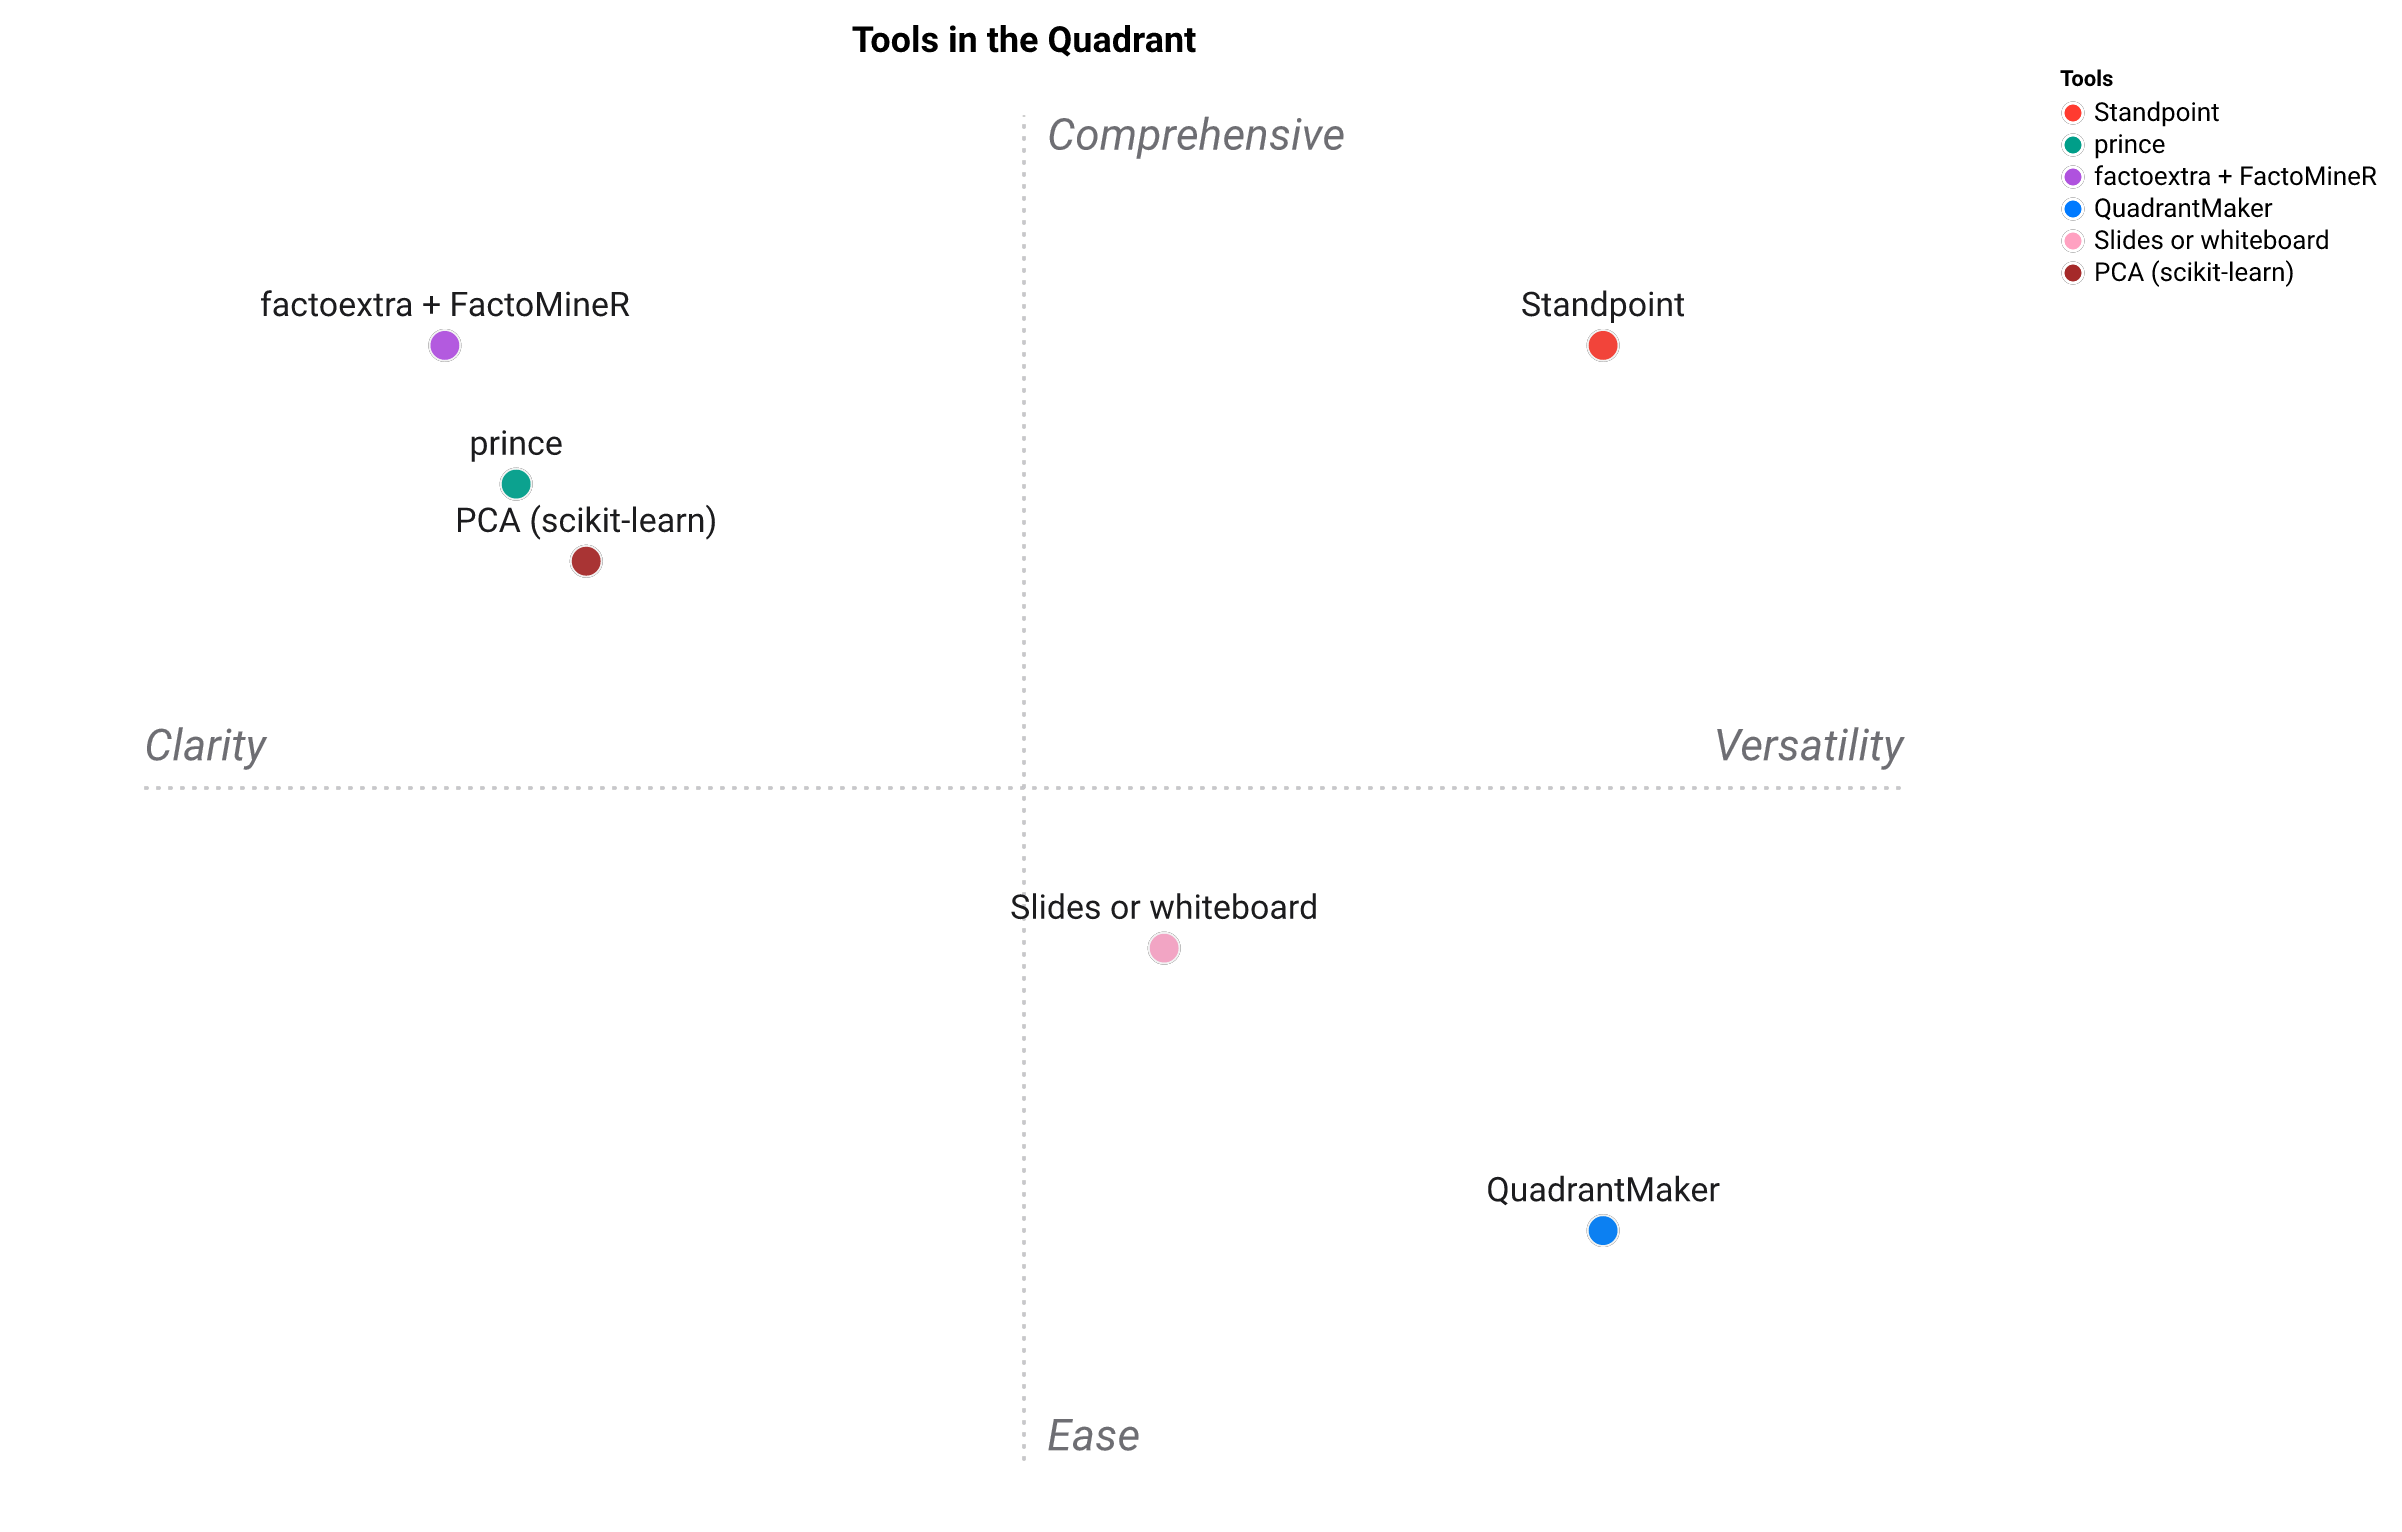
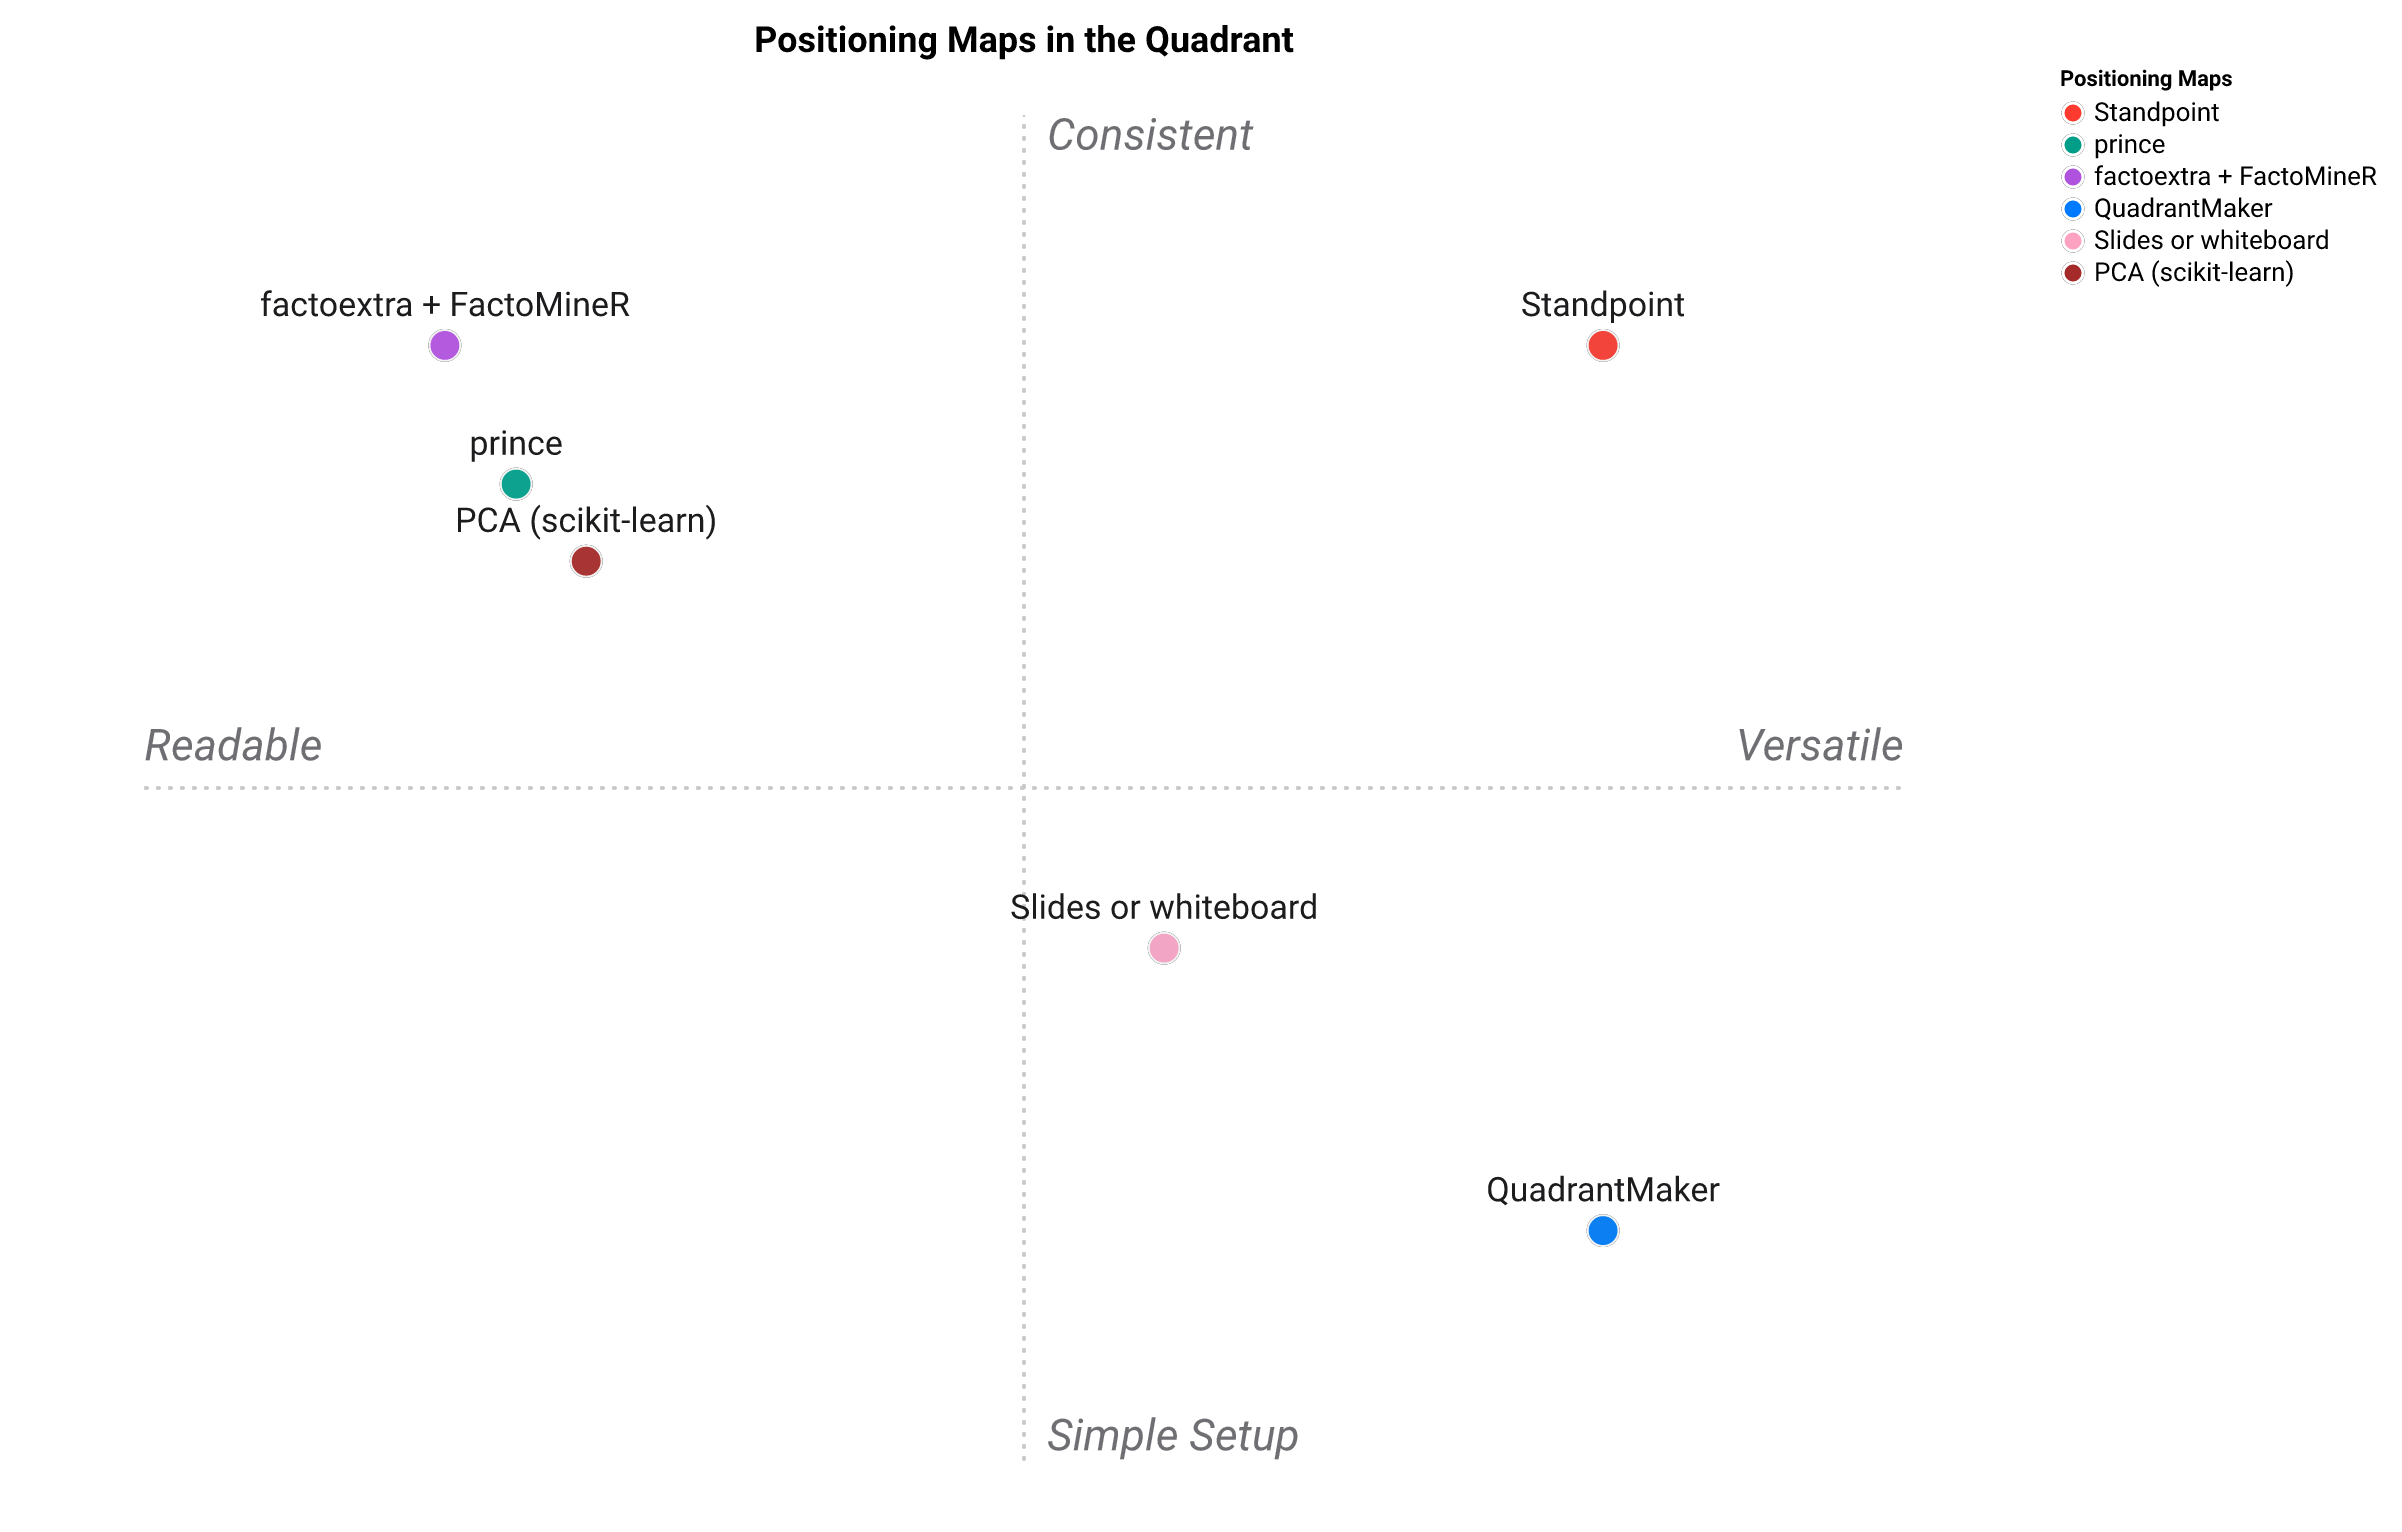
0.2.0: join the AI Helpers suite + first PyPI release
- Suite framing (logo, AI Helpers header), canonical Documentation section, and a
  self-referential positioning map wired into LANDSCAPE.md / PAYSAGE.md from the
  committed assets/landscape.csv / paysage.csv source (domain label 'Positioning
  Maps'), with managed TABLE / FIGURE marker regions.
- Absolute URLs in README/LISEZMOI so they render on PyPI; add 'pip install
  standpoint' (From PyPI) install path.
- Bump version 0.1.0 -> 0.2.0; CHANGELOG.

diff --git a/standpoint/__init__.py b/standpoint/__init__.py
@@ -34,7 +34,7 @@ from __future__ import annotations
 
 __author__ = "Warith Harchaoui"
 __url__ = "https://www.linkedin.com/in/warith-harchaoui"
-__version__ = "0.1.0"
+__version__ = "0.2.0"
 
 import argparse
 import json

diff --git a/LANDSCAPE.md b/LANDSCAPE.md
@@ -8,16 +8,26 @@ a comparison table run through the tool, exactly like any other example.
 
 The comparison (higher is better, on a 1–5 scale):
 
-| Tool | Automated Axis Naming | Multilingual Output | Local Execution | One Command | Threefold Deliverable | Reproducibility | Readable Axes | Ease of Setup |
-|---|---|---|---|---|---|---|---|---|
-| Standpoint | 5 | 5 | 5 | 5 | 5 | 5 | 4 | 4 |
-| prince | 1 | 1 | 5 | 2 | 1 | 5 | 5 | 3 |
-| PCA (scikit-learn) | 1 | 1 | 5 | 2 | 1 | 5 | 4 | 3 |
-| factoextra + FactoMineR | 1 | 1 | 5 | 2 | 2 | 5 | 5 | 2 |
-| QuadrantMaker | 1 | 2 | 2 | 4 | 1 | 1 | 2 | 5 |
-| Slides or whiteboard | 1 | 3 | 5 | 2 | 1 | 1 | 2 | 4 |
+<!-- TABLE:START -->
+| Positioning Maps | Automated Axis Naming | Multilingual Output | Local Execution | One Command | Threefold Deliverable | Reproducibility | Readable Axes | Ease of Setup |
+| --- | :---: | :---: | :---: | :---: | :---: | :---: | :---: | :---: |
+| **Standpoint** | ⭐⭐⭐⭐⭐ | ⭐⭐⭐⭐⭐ | ⭐⭐⭐⭐⭐ | ⭐⭐⭐⭐⭐ | ⭐⭐⭐⭐⭐ | ⭐⭐⭐⭐⭐ | ⭐⭐⭐⭐ | ⭐⭐⭐⭐ |
+| prince | ⭐ | ⭐ | ⭐⭐⭐⭐⭐ | ⭐⭐ | ⭐ | ⭐⭐⭐⭐⭐ | ⭐⭐⭐⭐⭐ | ⭐⭐⭐ |
+| PCA (scikit-learn) | ⭐ | ⭐ | ⭐⭐⭐⭐⭐ | ⭐⭐ | ⭐ | ⭐⭐⭐⭐⭐ | ⭐⭐⭐⭐ | ⭐⭐⭐ |
+| factoextra + FactoMineR | ⭐ | ⭐ | ⭐⭐⭐⭐⭐ | ⭐⭐ | ⭐⭐ | ⭐⭐⭐⭐⭐ | ⭐⭐⭐⭐⭐ | ⭐⭐ |
+| QuadrantMaker | ⭐ | ⭐⭐ | ⭐⭐ | ⭐⭐⭐⭐ | ⭐ | ⭐ | ⭐⭐ | ⭐⭐⭐⭐⭐ |
+| Slides or whiteboard | ⭐ | ⭐⭐⭐ | ⭐⭐⭐⭐⭐ | ⭐⭐ | ⭐ | ⭐ | ⭐⭐ | ⭐⭐⭐⭐ |
+<!-- TABLE:END -->
 
-![Standpoint compared to other positioning-map tools](https://raw.githubusercontent.com/warith-harchaoui/standingpoint/main/assets/landscape.png)
+## Positioning map
+
+<!-- FIGURE:START -->
+2D representation of the table above.
+
+![Positioning map](https://raw.githubusercontent.com/warith-harchaoui/standingpoint/main/assets/landscape.png)
+
+The map is a 2-D summary of the eight criteria, so read it as a shape, not a scoreboard. `Standpoint` is at the top-right corner. The axes read **Horizontal — Readable ↔ Versatile** and **Vertical — Simple Setup ↔ Consistent**.
+<!-- FIGURE:END -->
 
 ## How to read it
 

diff --git a/PAYSAGE.md b/PAYSAGE.md
@@ -9,16 +9,26 @@ l'outil, exactement comme n'importe quel autre exemple.
 
 La comparaison (plus haut vaut mieux, sur une échelle de 1 à 5) :
 
-| Outil | Nommage Automatique des Axes | Sortie Multilingue | Exécution Locale | Une Seule Commande | Livrable Triple | Reproductibilité | Axes Lisibles | Simplicité d'Installation |
-|---|---|---|---|---|---|---|---|---|
-| Standpoint | 5 | 5 | 5 | 5 | 5 | 5 | 4 | 4 |
-| prince | 1 | 1 | 5 | 2 | 1 | 5 | 5 | 3 |
-| PCA (scikit-learn) | 1 | 1 | 5 | 2 | 1 | 5 | 4 | 3 |
-| factoextra + FactoMineR | 1 | 1 | 5 | 2 | 2 | 5 | 5 | 2 |
-| QuadrantMaker | 1 | 2 | 2 | 4 | 1 | 1 | 2 | 5 |
-| Diapositives ou tableau blanc | 1 | 3 | 5 | 2 | 1 | 1 | 2 | 4 |
+<!-- TABLE:START -->
+| Cartes de positionnement | Nommage Automatique des Axes | Sortie Multilingue | Exécution Locale | Une Seule Commande | Livrable Triple | Reproductibilité | Axes Lisibles | Simplicité d'Installation |
+| --- | :---: | :---: | :---: | :---: | :---: | :---: | :---: | :---: |
+| **Standpoint** | ⭐⭐⭐⭐⭐ | ⭐⭐⭐⭐⭐ | ⭐⭐⭐⭐⭐ | ⭐⭐⭐⭐⭐ | ⭐⭐⭐⭐⭐ | ⭐⭐⭐⭐⭐ | ⭐⭐⭐⭐ | ⭐⭐⭐⭐ |
+| prince | ⭐ | ⭐ | ⭐⭐⭐⭐⭐ | ⭐⭐ | ⭐ | ⭐⭐⭐⭐⭐ | ⭐⭐⭐⭐⭐ | ⭐⭐⭐ |
+| PCA (scikit-learn) | ⭐ | ⭐ | ⭐⭐⭐⭐⭐ | ⭐⭐ | ⭐ | ⭐⭐⭐⭐⭐ | ⭐⭐⭐⭐ | ⭐⭐⭐ |
+| factoextra + FactoMineR | ⭐ | ⭐ | ⭐⭐⭐⭐⭐ | ⭐⭐ | ⭐⭐ | ⭐⭐⭐⭐⭐ | ⭐⭐⭐⭐⭐ | ⭐⭐ |
+| QuadrantMaker | ⭐ | ⭐⭐ | ⭐⭐ | ⭐⭐⭐⭐ | ⭐ | ⭐ | ⭐⭐ | ⭐⭐⭐⭐⭐ |
+| Diapositives ou tableau blanc | ⭐ | ⭐⭐⭐ | ⭐⭐⭐⭐⭐ | ⭐⭐ | ⭐ | ⭐ | ⭐⭐ | ⭐⭐⭐⭐ |
+<!-- TABLE:END -->
 
-![Standpoint comparé aux autres outils de cartes de positionnement](https://raw.githubusercontent.com/warith-harchaoui/standingpoint/main/assets/paysage.png)
+## Carte de positionnement
+
+<!-- FIGURE:START -->
+Représentation 2D du tableau ci-dessus.
+
+![Carte de positionnement](https://raw.githubusercontent.com/warith-harchaoui/standingpoint/main/assets/paysage.png)
+
+La carte est un résumé en 2D des 8 critères : à lire comme une forme, pas comme un classement. « Standpoint » se situe dans le coin en haut à droite. Les axes se lisent **Horizontal — Facile à Installer ↔ Fiable et Automatisé** et **Vertical — Simplicité de Début ↔ Répétable et Clair**.
+<!-- FIGURE:END -->
 
 Les en-têtes du tableau étant en français, la carte sort **entièrement en français** —
 titre, noms des axes et analyse — ce qui illustre au passage le côté multilingue de

diff --git a/LISEZMOI.md b/LISEZMOI.md
@@ -2,7 +2,7 @@
 
 [🇫🇷](https://github.com/warith-harchaoui/standingpoint/blob/main/LISEZMOI.md) · [🇬🇧](https://github.com/warith-harchaoui/standingpoint/blob/main/README.md)
 
-[![CI](https://github.com/warith-harchaoui/standingpoint/actions/workflows/ci.yml/badge.svg)](https://github.com/warith-harchaoui/standingpoint/actions/workflows/ci.yml) [![License: BSD-3-Clause](https://img.shields.io/badge/License-BSD%203--Clause-blue.svg)](LICENSE) [![Python](https://img.shields.io/badge/python-3.10%E2%80%933.13-blue.svg)](#) [![Local-first](https://img.shields.io/badge/local--first-Ollama%20%2B%20Vega--Lite-brightgreen.svg)](#la-promesse)
+[![CI](https://github.com/warith-harchaoui/standingpoint/actions/workflows/ci.yml/badge.svg)](https://github.com/warith-harchaoui/standingpoint/actions/workflows/ci.yml) [![License: BSD-3-Clause](https://img.shields.io/badge/License-BSD%203--Clause-blue.svg)](https://github.com/warith-harchaoui/standingpoint/blob/main/LICENSE) [![Python](https://img.shields.io/badge/python-3.10%E2%80%933.13-blue.svg)](#) [![Local-first](https://img.shields.io/badge/local--first-Ollama%20%2B%20Vega--Lite-brightgreen.svg)](#la-promesse)
 
 `Standpoint` fait partie d'une collection de bibliothèques appelée `AI Helpers`, développée pour bâtir des applications d'intelligence artificielle.
 
@@ -41,8 +41,11 @@ Standpoint est **local-first** par conception. Trois cas, en toute honnêteté :
 
 ## Documentation
 
+[💻 Documentation](https://harchaoui.org/warith/ai-helpers/docs/standingpoint-doc/)
+
+[🗺️ Paysage](https://github.com/warith-harchaoui/standingpoint/blob/main/PAYSAGE.md)
+
 [📋 Exemples](https://github.com/warith-harchaoui/standingpoint/blob/main/EXAMPLES.md)
-· [🗺️ Paysage](https://github.com/warith-harchaoui/standingpoint/blob/main/PAYSAGE.md)
 
 
 Entrée : un tableau d'options et de leurs notes.
@@ -110,6 +113,12 @@ téléchargez le modèle par défaut une fois (optionnel — sinon, utilisez `--
 
 Nous recommandons un environnement Python. Si vous ne savez pas comment faire : [🥸 Conseils techniques](https://harchaoui.org/warith/4ml/#install).
 
+### Depuis PyPI (recommandé)
+
+```bash
+pip install standpoint
+```
+
 ### Depuis les sources
 
 ```bash
@@ -121,7 +130,7 @@ pip install -e .          # ou : pip install -r requirements.txt
 Ou directement depuis GitHub (le nom d'import est `standpoint`) :
 
 ```bash
-pip install "git+https://github.com/warith-harchaoui/standingpoint.git@v0.1.0"
+pip install "git+https://github.com/warith-harchaoui/standingpoint.git@v0.2.0"
 ```
 
 ## Utilisation

diff --git a/README.md b/README.md
@@ -2,7 +2,7 @@
 
 [🇫🇷](https://github.com/warith-harchaoui/standingpoint/blob/main/LISEZMOI.md) · [🇬🇧](https://github.com/warith-harchaoui/standingpoint/blob/main/README.md)
 
-[![CI](https://github.com/warith-harchaoui/standingpoint/actions/workflows/ci.yml/badge.svg)](https://github.com/warith-harchaoui/standingpoint/actions/workflows/ci.yml) [![License: BSD-3-Clause](https://img.shields.io/badge/License-BSD%203--Clause-blue.svg)](LICENSE) [![Python](https://img.shields.io/badge/python-3.10%E2%80%933.13-blue.svg)](#) [![Local-first](https://img.shields.io/badge/local--first-Ollama%20%2B%20Vega--Lite-brightgreen.svg)](#the-promise)
+[![CI](https://github.com/warith-harchaoui/standingpoint/actions/workflows/ci.yml/badge.svg)](https://github.com/warith-harchaoui/standingpoint/actions/workflows/ci.yml) [![License: BSD-3-Clause](https://img.shields.io/badge/License-BSD%203--Clause-blue.svg)](https://github.com/warith-harchaoui/standingpoint/blob/main/LICENSE) [![Python](https://img.shields.io/badge/python-3.10%E2%80%933.13-blue.svg)](#) [![Local-first](https://img.shields.io/badge/local--first-Ollama%20%2B%20Vega--Lite-brightgreen.svg)](#the-promise)
 
 `Standpoint` belongs to a collection of libraries called `AI Helpers` developed for building Artificial Intelligence.
 
@@ -38,8 +38,11 @@ Standpoint is **local-first** by design. Three honest cases:
 
 ## Documentation
 
+[💻 Documentation](https://harchaoui.org/warith/ai-helpers/docs/standingpoint-doc/)
+
+[🗺️ Landscape](https://github.com/warith-harchaoui/standingpoint/blob/main/LANDSCAPE.md)
+
 [📋 Examples](https://github.com/warith-harchaoui/standingpoint/blob/main/EXAMPLES.md)
-· [🗺️ Landscape](https://github.com/warith-harchaoui/standingpoint/blob/main/LANDSCAPE.md)
 
 Input: a table of options and their ratings.
 
@@ -102,6 +105,12 @@ the default model once (optional — skip it and use `--no-llm`):
 
 We recommend a Python environment. If you're new to that, see [🥸 Tech tips](https://harchaoui.org/warith/4ml/#install).
 
+### From PyPI (recommended)
+
+```bash
+pip install standpoint
+```
+
 ### From source
 
 ```bash
@@ -113,7 +122,7 @@ pip install -e .          # or: pip install -r requirements.txt
 Or install straight from GitHub (the import name is `standpoint`):
 
 ```bash
-pip install "git+https://github.com/warith-harchaoui/standingpoint.git@v0.1.0"
+pip install "git+https://github.com/warith-harchaoui/standingpoint.git@v0.2.0"
 ```
 
 ## Usage

diff --git a/CHANGELOG.md b/CHANGELOG.md
@@ -7,6 +7,17 @@ and this project adheres to [Semantic Versioning](https://semver.org/spec/v2.0.0
 
 ## [Unreleased]
 
+## [0.2.0] - 2026-07-24
+
+### Added
+
+- **Joined the [AI Helpers](https://harchaoui.org/warith/ai-helpers) suite** (Misc
+  group): suite framing + logo in the README/LISEZMOI, a canonical Documentation
+  section, and a self-referential positioning map wired into `LANDSCAPE.md` /
+  `PAYSAGE.md` from the committed `assets/landscape.csv` / `paysage.csv` source.
+- **First PyPI release** (`pip install standpoint`); README/LISEZMOI use absolute
+  URLs so they render on the PyPI project page.
+
 ### Changed
 
 - **Highlighted roles are now domain-agnostic.** The two extra highlights used to be